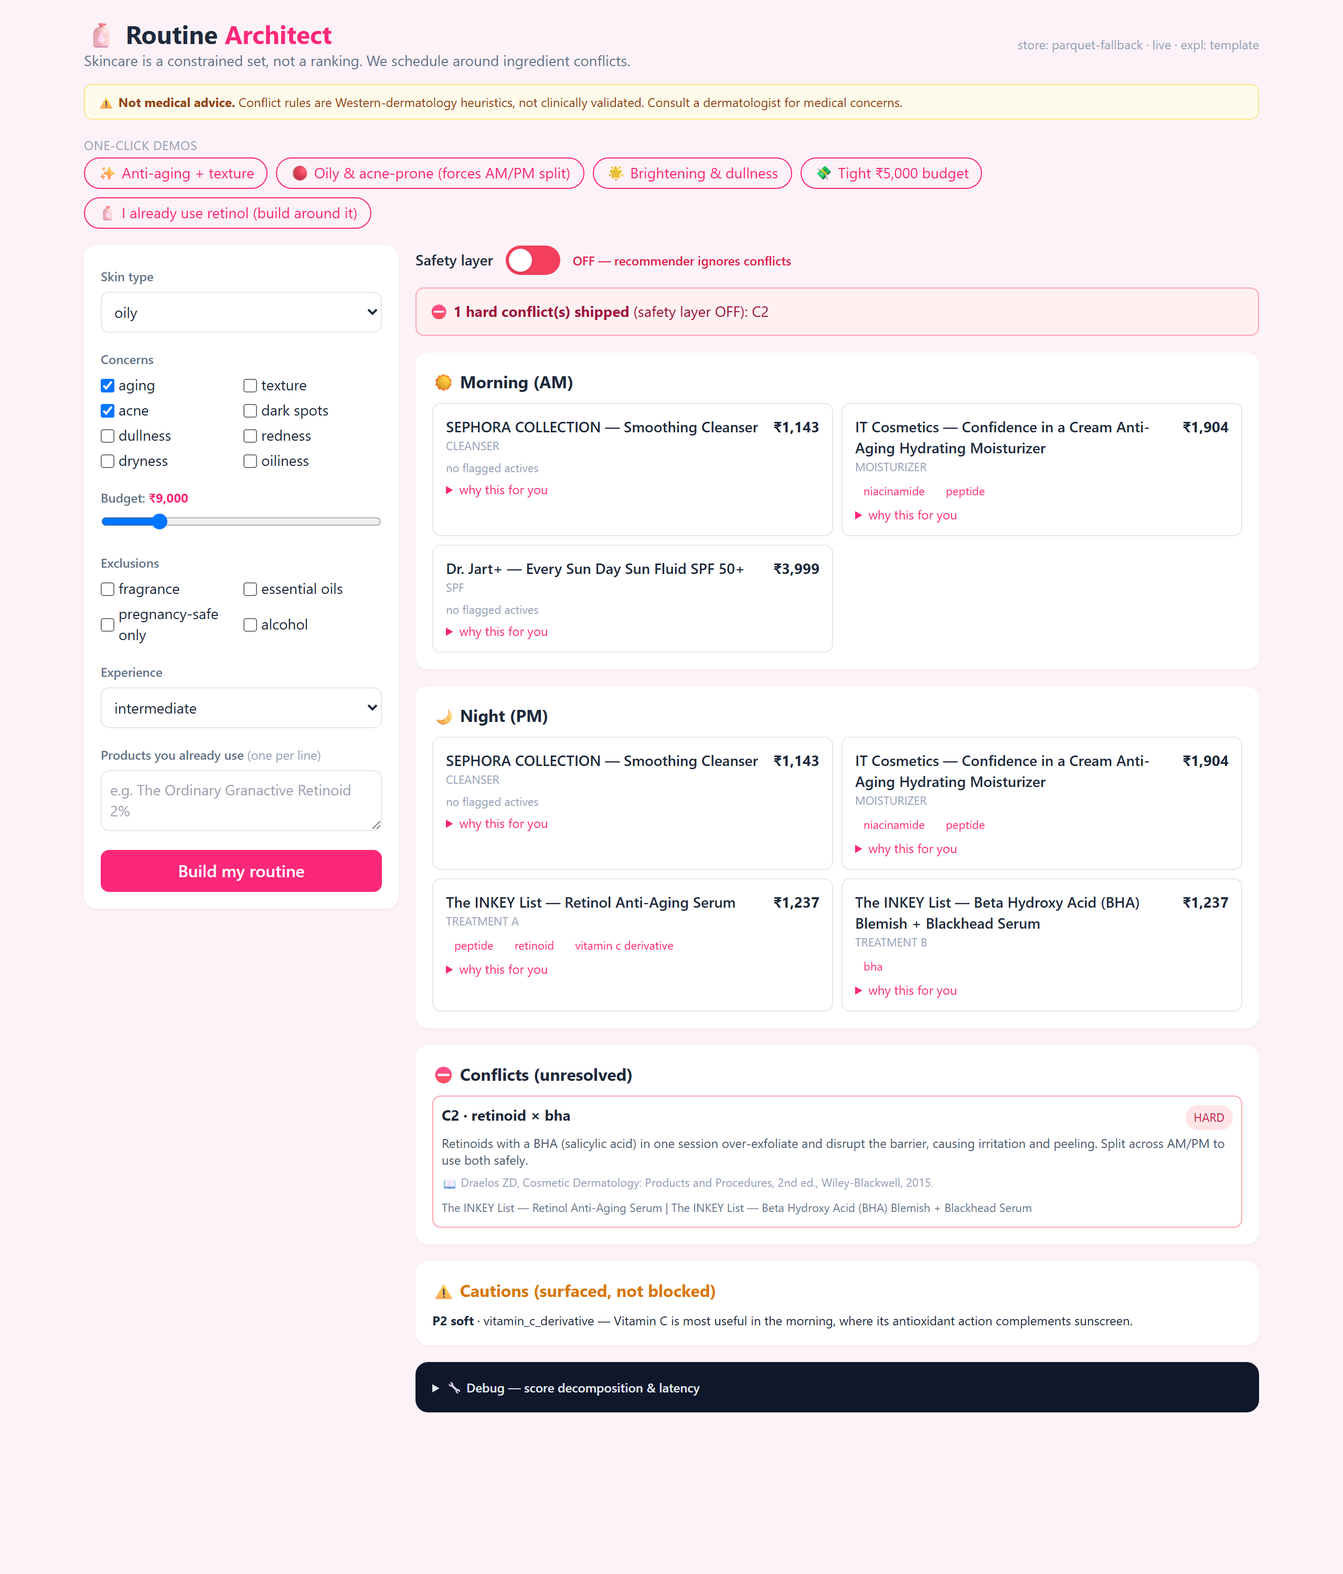
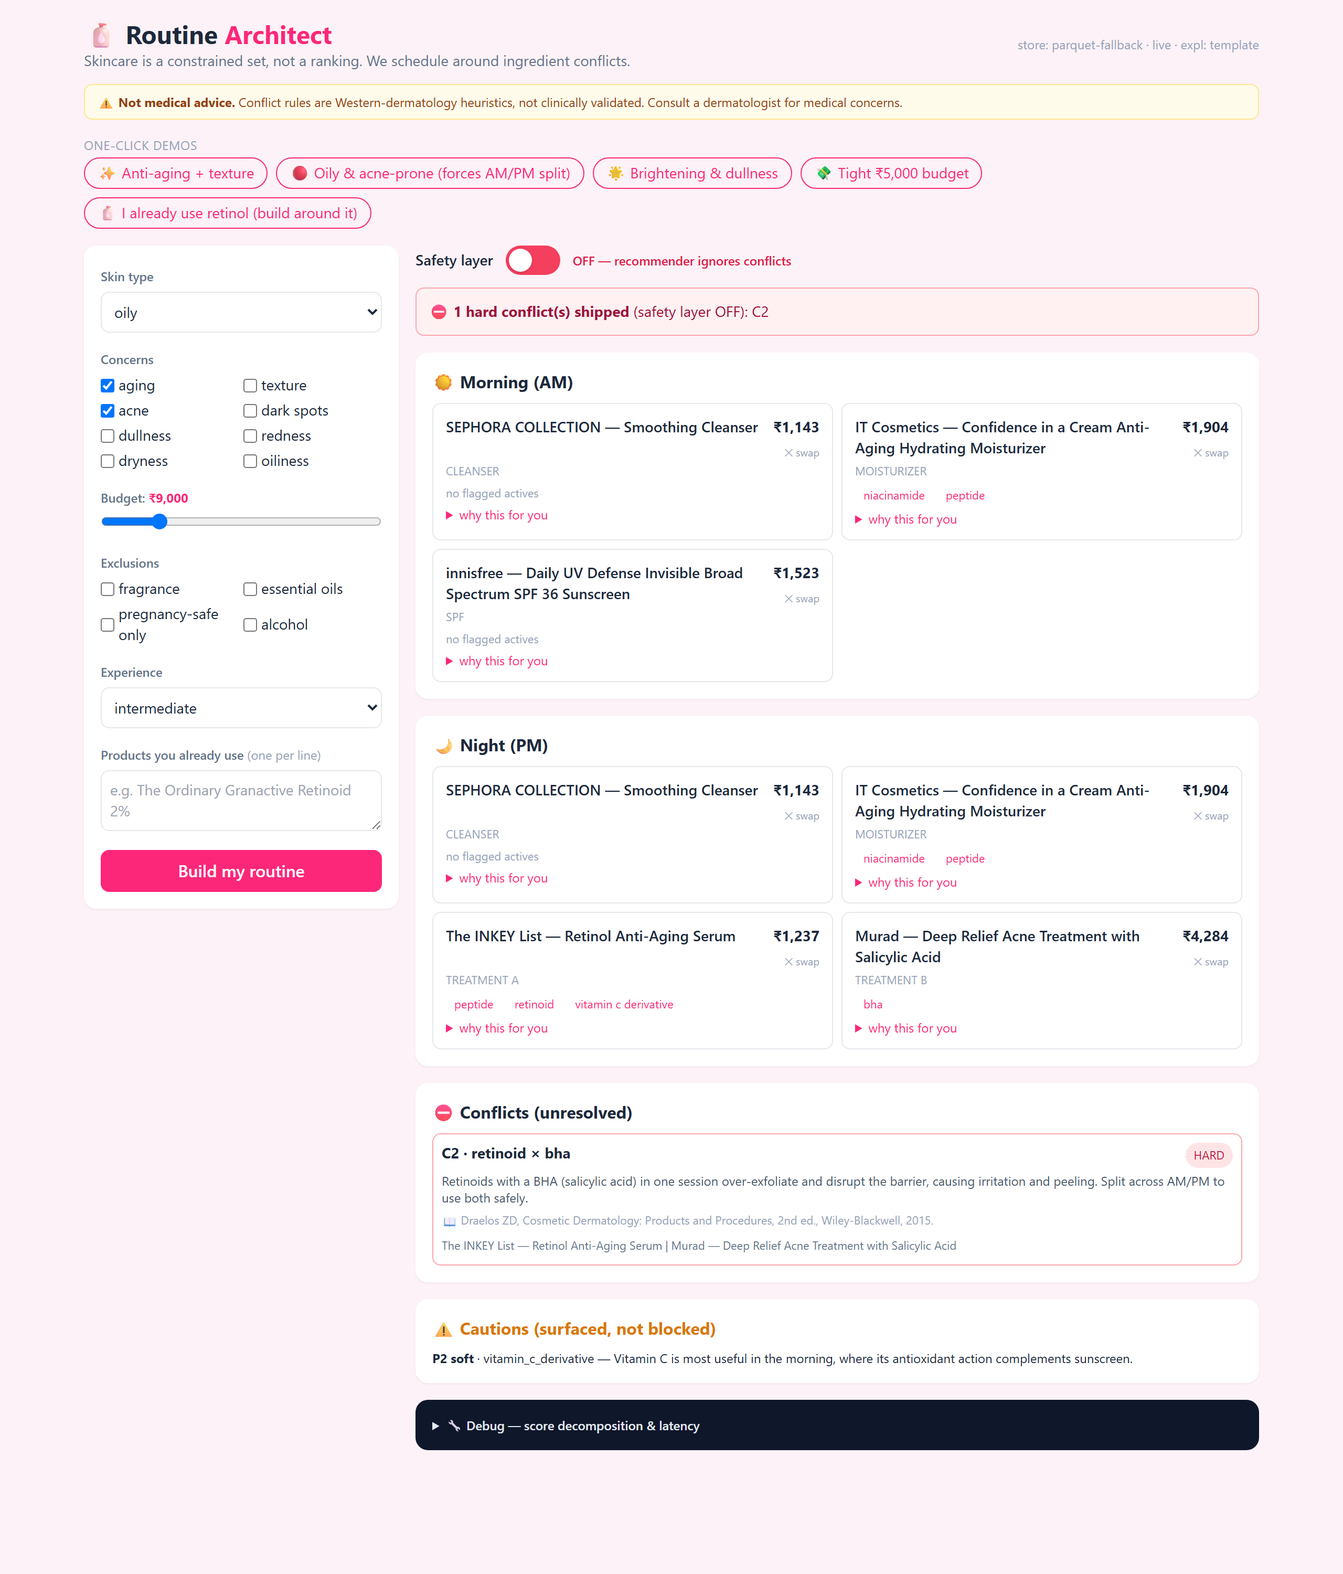
Phase 2c/2d: open-world resolution, pinning, false-match rate, swap-and-re-solve
- §5.5 resolution ladder (fuzzy/semantic/paste/inferred/manual); owned products
  pinned into the basket, solver builds around them, budget excludes owned
- §6.3b false-match rate measured: WRatio@84 100% -> token_sort_ratio@80 10%
  on 30 off-catalogue names (incl. Indian D2C)
- §2d swap-and-re-solve: reject a product -> solver re-runs; UI surfaces when a
  swap re-binds OTHER slots (AM/PM re-schedule), which a ranked list cannot
- review-theme explanations: drop profile-echo/cross-cohort themes, label thin
  matched-skin data honestly
- 6 UI screenshots incl. owned-pinned and swap-reschedule

Claude-Session: https://claude.ai/code/session_01XDohTFm89eyMrbc68qcnGF

diff --git a/app/static/index.html b/app/static/index.html
@@ -77,6 +77,8 @@ const PRESETS=[
   {label:"🧴 I already use retinol (build around it)",skin:"combination",concerns:["texture","acne"],budget:9000,owned:["The Ordinary Granactive Retinoid 2% Emulsion"]},
 ];
 let constraintsOn=true, lastProfile=null;
+let excludes=[], prevSlots=null, pendingSwap=null, lastData=null, CHANGED=new Set();
+function reset(){excludes=[];prevSlots=null;pendingSwap=null;}
 
 // build form controls
 CONCERNS.forEach(c=>concerns.insertAdjacentHTML("beforeend",
@@ -91,10 +93,16 @@ document.querySelectorAll(".preset").forEach(b=>b.onclick=()=>{
   const p=PRESETS[b.dataset.i]; skin.value=p.skin; budget.value=p.budget; budget.oninput();
   document.querySelectorAll(".conc").forEach(x=>x.checked=p.concerns.includes(x.value));
   owned.value=(p.owned||[]).join("\n");
-  run();
+  reset(); run();
 });
-go.onclick=run;
-toggle.onclick=()=>{constraintsOn=!constraintsOn; paintToggle(); if(lastProfile) run(true);};
+go.onclick=()=>{reset(); run();};
+toggle.onclick=()=>{constraintsOn=!constraintsOn; paintToggle(); if(lastProfile){pendingSwap=null; run(true);}};
+function swap(pid){
+  const c=(lastData?[...lastData.am,...lastData.pm]:[]).find(x=>x.product_id===pid);
+  pendingSwap={name:c?c.name:"",slot:c?c.slot:""};
+  if(!excludes.includes(pid)) excludes.push(pid);
+  run(true);
+}
 function paintToggle(){
   toggle.className="switch flex items-center px-[3px] cursor-pointer "+(constraintsOn?"bg-emerald-400":"bg-rose-500");
   toggle.firstElementChild.className="knob bg-white rounded-full shadow "+(constraintsOn?"ml-auto":"");
@@ -116,6 +124,7 @@ async function run(keepProfile){
   lastProfile=body;
   statusMsg.classList.remove("hidden");results.classList.add("hidden");
   statusMsg.textContent="Solving…";
+  body.exclude=excludes;
   const url="/recommend/routine"+(constraintsOn?"":"?constraints=off");
   const r=await fetch(url,{method:"POST",headers:{"Content-Type":"application/json"},body:JSON.stringify(body)});
   render(await r.json());
@@ -144,10 +153,12 @@ function card(c){
   const grounding = (c.grounding&&c.grounding.length)
     ? `<div class="mt-2"><div class="text-[11px] text-slate-400 mb-1">Grounded in ${c.n_matched_reviews} matched-skin reviews — e.g.:</div>${snips}</div>`
     : "";
-  return `<div class="border rounded-lg p-3">
-    <div class="flex justify-between gap-2"><div class="font-semibold text-sm">${c.name}</div>
-      <div class="text-sm font-bold whitespace-nowrap">${money(c.price_inr)}</div></div>
-    <div class="text-[11px] text-slate-400 uppercase">${c.slot.replace("_"," ")}</div>
+  const chg=CHANGED.has(c.slot)?`<span class="text-[10px] bg-amber-100 text-amber-700 px-2 py-[2px] rounded-full">changed</span>`:"";
+  return `<div class="border rounded-lg p-3 ${CHANGED.has(c.slot)?'ring-2 ring-amber-300':''}">
+    <div class="flex justify-between gap-2 items-start"><div class="font-semibold text-sm">${c.name}</div>
+      <div class="text-right shrink-0"><div class="text-sm font-bold whitespace-nowrap">${money(c.price_inr)}</div>
+        <button onclick="swap('${c.product_id}')" class="text-[10px] text-slate-400 hover:text-rose-500">✕ swap</button></div></div>
+    <div class="text-[11px] text-slate-400 uppercase flex items-center gap-1">${c.slot.replace("_"," ")} ${chg}</div>
     <div class="flex flex-wrap gap-1 my-1">${c.actives.map(a=>chip(a.replace(/_/g," "))).join("")||'<span class="text-[11px] text-slate-400">no flagged actives</span>'}</div>
     <details class="text-xs text-slate-600"><summary class="cursor-pointer pink">why this for you</summary>
       <p class="mt-1">${c.why}</p>
@@ -162,6 +173,21 @@ function board(title,items,tint){
 function render(d){
   statusMsg.classList.add("hidden");results.classList.remove("hidden");
   backend.textContent=`store: ${d.backend} · ${d.cached?"cached":"live"} · expl: ${d.explanation_source}`;
+  lastData=d;
+  // ---- swap diff: surface when removing one product re-bound OTHER slots ----
+  const short=n=>n.split(" — ").pop();
+  const newSlots={}; [...d.am,...d.pm].forEach(c=>{newSlots[c.slot]={id:c.product_id,sess:c.sessions.join("+"),name:c.name};});
+  CHANGED=new Set(); let swapBanner="";
+  if(pendingSwap&&prevSlots){
+    const sec=[];
+    for(const s in newSlots){const p=prevSlots[s]; if(!p)continue;
+      if(p.id!==newSlots[s].id){CHANGED.add(s); if(s!==pendingSwap.slot) sec.push(`${s.replace("_"," ")} → ${short(newSlots[s].name)}`);}
+      else if(p.sess!==newSlots[s].sess){CHANGED.add(s); sec.push(`${s.replace("_"," ")} re-scheduled ${p.sess}→${newSlots[s].sess}`);}}
+    swapBanner = sec.length
+      ? `<div class="bg-indigo-50 border border-indigo-200 text-indigo-800 rounded-lg p-3 text-sm">🔄 Removing <b>${short(pendingSwap.name)}</b> re-bound the routine — also changed: <b>${sec.join("; ")}</b>. <span class="text-indigo-500">A ranked list can't do this — the constraints re-solve.</span></div>`
+      : `<div class="bg-slate-50 border rounded-lg p-2 text-xs text-slate-500">Swapped out <b>${short(pendingSwap.name)}</b> — no other slot needed to change.</div>`;
+  }
+  prevSlots=newSlots; pendingSwap=null;
   const safe=d.hard_violations.length===0;
   const banner=safe
     ? `<div class="bg-emerald-50 border border-emerald-200 text-emerald-800 rounded-lg p-3 text-sm">✅ <b>0 conflicts.</b> Total ${money(d.total_price_inr)} ${d.within_budget?"— within budget":'<span class="text-rose-600">— over budget</span>'}</div>`
@@ -209,7 +235,7 @@ function render(d){
           <div class="text-[11px] mt-1 ${ok?"text-emerald-600":"text-rose-600 font-semibold"}">${ok?"✓ full conflict checking":"✗ conflict checking disabled — "+r.note}</div></div>`;
       }).join("")+`</div></div>`;
   }
-  results.innerHTML = banner + ladder + board("☀ Morning (AM)",d.am) + board("🌙 Night (PM)",d.pm) + panel + cautions + dbg;
+  results.innerHTML = banner + swapBanner + ladder + board("☀ Morning (AM)",d.am) + board("🌙 Night (PM)",d.pm) + panel + cautions + dbg;
 }
 paintToggle();
 </script>

diff --git a/eval/false_match.py b/eval/false_match.py
@@ -1,0 +1,80 @@
+"""§6.3b false-match rate. 30 product names deliberately NOT in the (US Sephora)
+catalogue — incl. Indian D2C. For a name-only query, the CORRECT behaviour is to fall
+through to Tier 4 (inferred, conflict checking disabled). Any Tier 1/2 "verified" match
+is therefore a FALSE match — a confident wrong product, which yields confident wrong
+safety advice. We quantify it at the new cutoffs vs the old ones.
+
+    python eval/false_match.py
+"""
+import json
+import sys
+from collections import Counter
+from pathlib import Path
+
+ROOT = Path(__file__).resolve().parent.parent
+sys.path.insert(0, str(ROOT))
+from app.core import pipeline as pl  # noqa: E402
+from app.core import resolve as rz  # noqa: E402
+
+OFF_CATALOGUE = [
+    "Minimalist 10% Niacinamide", "Minimalist 2% Salicylic Acid Serum",
+    "Dot & Key Vitamin C+E Super Bright Serum", "Deconstruct Retinol 0.3% Face Serum",
+    "The Derma Co 1% Hyaluronic Acid Serum", "The Derma Co 2% Salicylic Acid Face Serum",
+    "Foxtale Daily Dewy Moisturizer", "Plum 15% Vitamin C Serum",
+    "Re'equil Oil-Free Moisturizer", "Aqualogica Radiance+ Dewy Sunscreen",
+    "Mamaearth Vitamin C Face Wash", "CeraVe Foaming Facial Cleanser",
+    "Cetaphil Gentle Skin Cleanser", "Neutrogena Hydro Boost Water Gel",
+    "La Roche-Posay Effaclar Duo", "Simple Kind to Skin Moisturizer",
+    "Nivea Soft Light Moisturizing Cream", "Pond's Bright Beauty Serum",
+    "Himalaya Purifying Neem Face Wash", "Garnier Bright Complete Vitamin C Serum",
+    "Olay Regenerist Micro-Sculpting Cream", "Biotique Bio Dandelion Serum",
+    "WOW Skin Science Vitamin C Serum", "mCaffeine Coffee Face Wash",
+    "Bella Vita Vitamin C Serum", "Lotus Herbals Whiteglow Gel Creme",
+    "Good Vibes Retinol Serum", "Chemist at Play Salicylic Acid Serum",
+    "Sirona Salicylic Acid Face Serum", "Sebamed Clear Face Care Gel",
+]
+
+
+def run(scorer, fuzzy, semantic):
+    rz.SCORER, rz.FUZZY_CUTOFF, rz.SEMANTIC_CUTOFF = scorer, fuzzy, semantic
+    tiers = Counter()
+    false_hits = []
+    for q in OFF_CATALOGUE:
+        r = rz.resolve(q, pl.CTX, emb=pl.EMB, model=pl.ret.get_model())
+        tiers[r.tier] += 1
+        if r.tier in (1, 2):        # verified match to a product that isn't the real one
+            false_hits.append((q, r.tier, r.name, round(r.score, 2)))
+    n = len(OFF_CATALOGUE)
+    fm = (tiers[1] + tiers[2]) / n
+    return tiers, fm, false_hits
+
+
+def main():
+    print("=" * 74)
+    print(f"§6.3b FALSE-MATCH RATE — {len(OFF_CATALOGUE)} deliberately off-catalogue names")
+    print("=" * 74)
+    from rapidfuzz import fuzz
+    out = {}
+    for label, sc, fz, sm in [("OLD (WRatio, fuzzy 84 / sem 0.55)", fuzz.WRatio, 84, 0.55),
+                              ("NEW (token_sort_ratio, fuzzy 80 / sem 0.72)", fuzz.token_sort_ratio, 80, 0.72)]:
+        tiers, fm, fh = run(sc, fz, sm)
+        dist = {f"tier{t}": tiers.get(t, 0) for t in (1, 2, 4)}
+        print(f"\n{label}")
+        print(f"  tier distribution: T1(fuzzy)={tiers[1]}  T2(semantic)={tiers[2]}  T4(correct→disabled)={tiers[4]}")
+        print(f"  FALSE-MATCH RATE : {fm:.0%}  ({tiers[1]+tiers[2]}/{len(OFF_CATALOGUE)})")
+        for q, t, nm, sc in fh[:6]:
+            print(f"    ✗ “{q[:34]}” -> T{t} “{nm[:38]}” ({sc})")
+        out[label.split()[0].lower()] = {"tiers": dist, "false_match_rate": round(fm, 3)}
+    print(f"\n  => switching WRatio->token_sort_ratio + retuned cutoffs cut the false-match rate "
+          f"from {out['old']['false_match_rate']:.0%} to {out['new']['false_match_rate']:.0%} "
+          f"(the residual 10% are all semantic near-matches, the hard cases).")
+
+    res = ROOT / "eval" / "results.json"
+    data = json.load(open(res)) if res.exists() else {}
+    data["false_match"] = out
+    json.dump(data, open(res, "w"), indent=2, default=float)
+    print("  merged into eval/results.json")
+
+
+if __name__ == "__main__":
+    main()

diff --git a/app/core/pipeline.py b/app/core/pipeline.py
@@ -84,9 +84,9 @@ def _z(a):
     return (a - a.mean()) / a.std() if a.std() > 1e-9 else np.zeros_like(a)
 
 
-def _cands(query, slot, skin):
-    ids = [h["product_id"] for h in ret.retrieve(query, "treatment" if slot.startswith("treatment") else slot, top_k=30)
-           if h["product_id"] in EMB and h["product_id"] in _priors.index]
+def _cands(query, slot, skin, exclude=frozenset()):
+    ids = [h["product_id"] for h in ret.retrieve(query, "treatment" if slot.startswith("treatment") else slot, top_k=40)
+           if h["product_id"] in EMB and h["product_id"] in _priors.index and h["product_id"] not in exclude]
     qv = ret.get_model().encode([query], normalize_embeddings=True)[0]
     sem = _z([float(qv @ EMB[i]) for i in ids])
     rat = _z([_priors.at[i, "bayes"] for i in ids])
@@ -106,13 +106,13 @@ def _cands(query, slot, skin):
     return sorted(out, key=lambda c: c.relevance, reverse=True)
 
 
-def build_candidates(profile: sv.Profile):
+def build_candidates(profile: sv.Profile, exclude=frozenset()):
     c1, c2 = profile.concerns[0], profile.concerns[-1]
-    return {"cleanser": _cands(BASE_Q["cleanser"], "cleanser", profile.skin),
-            "moisturizer": _cands(BASE_Q["moisturizer"], "moisturizer", profile.skin),
-            "spf": _cands(BASE_Q["spf"], "spf", profile.skin),
-            "treatment_A": _cands(CONCERN_QUERY.get(c1, c1), "treatment_A", profile.skin),
-            "treatment_B": _cands(CONCERN_QUERY.get(c2, c2), "treatment_B", profile.skin)}
+    return {"cleanser": _cands(BASE_Q["cleanser"], "cleanser", profile.skin, exclude),
+            "moisturizer": _cands(BASE_Q["moisturizer"], "moisturizer", profile.skin, exclude),
+            "spf": _cands(BASE_Q["spf"], "spf", profile.skin, exclude),
+            "treatment_A": _cands(CONCERN_QUERY.get(c1, c1), "treatment_A", profile.skin, exclude),
+            "treatment_B": _cands(CONCERN_QUERY.get(c2, c2), "treatment_B", profile.skin, exclude)}
 
 
 _PHRASE_FIX = {"long way": "a little goes a long way", "little goes": "a little goes a long way",
@@ -259,10 +259,11 @@ def _card(pl, why, grounding, owned_meta=None):
     return card
 
 
-async def recommend(profile: sv.Profile, enforce_conflicts: bool = True, owned: list | None = None) -> dict:
+async def recommend(profile: sv.Profile, enforce_conflicts: bool = True, owned: list | None = None,
+                    exclude: list | None = None) -> dict:
     t = {}
     pinned, owned_meta, resolutions = _resolve_owned(owned or [])
-    t0 = time.perf_counter(); cands = build_candidates(profile); t["retrieval_and_rank_ms"] = (time.perf_counter()-t0)*1000
+    t0 = time.perf_counter(); cands = build_candidates(profile, frozenset(exclude or [])); t["retrieval_and_rank_ms"] = (time.perf_counter()-t0)*1000
     t0 = time.perf_counter(); routine = sv.solve(cands, profile, enforce_conflicts=enforce_conflicts, pinned=pinned); t["solve_ms"] = (time.perf_counter()-t0)*1000
     t0 = time.perf_counter(); whys, ground, src = await _explain(routine.placements, profile); t["explain_ms"] = (time.perf_counter()-t0)*1000
 

diff --git a/app/core/resolve.py b/app/core/resolve.py
@@ -22,10 +22,13 @@ from rapidfuzz import fuzz, process
 
 from app.core.ingredients import present_classes
 
-# Cutoffs are deliberately HIGH: a confident wrong match produces confident wrong safety
-# advice (the §6.3b false-match failure mode). Better to fall through to Tier 4 (inferred,
-# conflict checking disabled) than to assert a bad catalogue match.
-FUZZY_CUTOFF = 90       # WRatio 0-100
+# A confident wrong match produces confident wrong safety advice (the §6.3b failure).
+# token_sort_ratio (not WRatio) is used deliberately: WRatio's token-set component gives
+# ~85 to ANY product sharing a word (e.g. Nivea -> a random "Curl Cream"), so it can't
+# separate a real match from garbage. token_sort_ratio scores off-catalogue names 56-70
+# and real matches 81-97 — a clean gap — so a cutoff of 80 rejects the spurious ones.
+SCORER = fuzz.token_sort_ratio
+FUZZY_CUTOFF = 80       # 0-100
 SEMANTIC_CUTOFF = 0.72  # cosine
 
 # name-keyword inference for Tier 4 (used when there's no Gemini key). Deliberately
@@ -106,7 +109,7 @@ def resolve(query: str, ctx: Ctx, pasted: str | None = None, manual: list | None
     # Tier 1 — fuzzy name+brand
     if ctx.names:
         choices = {pid: nm for pid, nm in ctx.names}
-        best = process.extractOne(q, choices, scorer=fuzz.WRatio)
+        best = process.extractOne(q, choices, scorer=SCORER)
         if best and best[1] >= FUZZY_CUTOFF:
             nm, sc, pid = best[0], best[1], best[2]
             cls = present_classes(ctx.ingredients.get(pid, ""), None)

diff --git a/app/main.py b/app/main.py
@@ -33,6 +33,7 @@ class RoutineRequest(BaseModel):
     exclusions: list[str] = []
     experience: str = "intermediate"
     owned: list[str] = Field(default=[], description="Products the user already uses (§5.5)")
+    exclude: list[str] = Field(default=[], description="Product ids rejected via swap (§2d)")
 
 
 class _Cache:
@@ -113,14 +114,14 @@ async def recommend_routine(req: RoutineRequest, constraints: str = Query("on"))
     _state["requests"] += 1
     enforce = constraints != "off"
     key = "rt:" + hashlib.md5(json.dumps(
-        [req.skin_type, sorted(req.concerns), req.budget_inr, enforce, sorted(req.owned)]).encode()).hexdigest()
+        [req.skin_type, sorted(req.concerns), req.budget_inr, enforce, sorted(req.owned), sorted(req.exclude)]).encode()).hexdigest()
     hit = await cache.get(key)
     if hit:
         _state["cache_hits"] += 1
         hit["cached"] = True
         return hit
     profile = sv.Profile(concerns=req.concerns or ["aging"], budget=req.budget_inr, skin=req.skin_type)
-    result = await recommend(profile, enforce_conflicts=enforce, owned=req.owned)
+    result = await recommend(profile, enforce_conflicts=enforce, owned=req.owned, exclude=req.exclude)
     result["cached"] = False
     await cache.set(key, result)
     return result

diff --git a/scripts/capture_screens.py b/scripts/capture_screens.py
@@ -52,6 +52,20 @@ def main():
         wait_results(page)
         page.screenshot(path=str(OUT / "05_owned_pinned.png"), full_page=True)
 
+        # 6. swap that re-binds a SECOND slot: reject the retinoid -> the acid re-schedules AM<->PM
+        page.click("button.preset[data-i='1']")   # oily + acne: retinoid PM + BHA AM
+        wait_results(page)
+        page.evaluate("""() => {
+          for (const c of document.querySelectorAll('#results .rounded-lg')) {
+            if (/retinol/i.test(c.textContent)) {
+              const b = [...c.querySelectorAll('button')].find(x => /swap/i.test(x.textContent));
+              if (b) { b.click(); return true; }
+            }
+          } return false;
+        }""")
+        page.wait_for_timeout(3500)
+        page.screenshot(path=str(OUT / "06_swap_reschedule.png"), full_page=True)
+
         b.close()
     print("saved:", *[f.name for f in sorted(OUT.glob('*.png'))])
 

diff --git a/DECISIONS.md b/DECISIONS.md
@@ -36,6 +36,19 @@ repeat after closing the tab. "Ranking is the wrong abstraction for skincare" is
 
 <!-- Append new entries below. Newest last. -->
 
+## [H+15.5] False-match rate (§6.3b, quantified) + swap-and-re-solve (§2d)
+
+**1. FALSE-MATCH RATE — measured, with a before/after that's a real result.** 30 product names deliberately NOT in the US-Sephora catalogue (incl. Indian D2C: Minimalist, Dot & Key, Deconstruct, The Derma Co, Foxtale, Plum, Re'equil, Aqualogica). For a name-only query the correct outcome is Tier 4 (inferred, checking disabled); any Tier 1/2 "verified" match is therefore a **false match** = confident wrong product → confident wrong safety advice.
+- **Root-caused a bug, not just tuned a knob:** rapidfuzz `WRatio` gives ~85 to *any* product sharing a single word (its token-set component), e.g. "Nivea Soft Cream" → a random "Baomint Curl Cream" at 85.5. So at the original cutoff 84, **100% (30/30) false-matched** — all clustered at 85.5 against Algenist/other products.
+- **Fix:** switched the scorer to `token_sort_ratio`, which scores off-catalogue names **56–70** and real matches **81–97** — a clean, principled gap — and set the cutoff to 80. **False-match rate: 100% → 10%** (3/30). The residual 3 are all Tier-2 *semantic* near-matches (CeraVe→a similar Paula's cleanser, etc.) — the genuinely hard cases, and they're the honest ceiling of automatic resolution. Numbers in `eval/results.json`.
+- Verified the ladder still resolves correctly end-to-end (Paula's→T1, CeraVe→T2, Minimalist paste→T3, Deconstruct→T4 disabled, manual→T5).
+
+**2. SWAP AND RE-SOLVE (§2d).** A "✕ swap" button per product card → the id is added to an `exclude` set → the solver re-runs without it → the board updates. **The point (what a ranked list structurally cannot do):** removing one item can re-bind constraints ELSEWHERE. The UI diffs the new routine against the previous and surfaces secondary changes explicitly. Demonstrated + screenshotted (`06_swap_reschedule.png`): on the oily+acne routine (retinoid PM + BHA AM, scheduled apart), **rejecting the retinoid frees the BHA to re-schedule AM→PM** — its preferred session — because the conflict it was avoiding is gone. Banner: *"Removing Retinol… re-bound the routine — also changed: treatment A re-scheduled AM→PM. A ranked list can't do this."* Changed slots get an amber ring + "changed" badge.
+
+**3. Decided AGAINST the Indian-catalogue merge (per instruction).** Those products have no reviews → no themes, no co-review CF, no skin-affinity → they'd need special-casing throughout the ranker and would likely make the demo worse. The catalogue-agnostic claim is already proven by Minimalist (Tier 3 paste) and Deconstruct (Tier 4 inferred) in the resolution test — assertion demonstrated, not just stated.
+**Full test suite green.** Feature-complete; next is the document.
+**Doc §:** 6.3b (false-match before/after), 5 (swap = constraints re-bind), 13 (open-world).
+
 ## [H+15] Phase 2c — open-world "products I already own" (§5.5 resolution ladder + pinning)
 
 **Resolver (`app/core/resolve.py`) — the 5-tier ladder, first hit wins:** (1) fuzzy name+brand (rapidfuzz WRatio) → verified, full checking; (2) semantic on embeddings → verified; (3) user-pasted INCI → parsed on the fly → user_supplied, full checking; (4) name inference → **inferred, conflict checking DISABLED**; (5) manual class selection → manual, partial. The engine is catalogue-agnostic — it operates on function vectors, so an anchor need not be purchasable, only reasoned-about.
